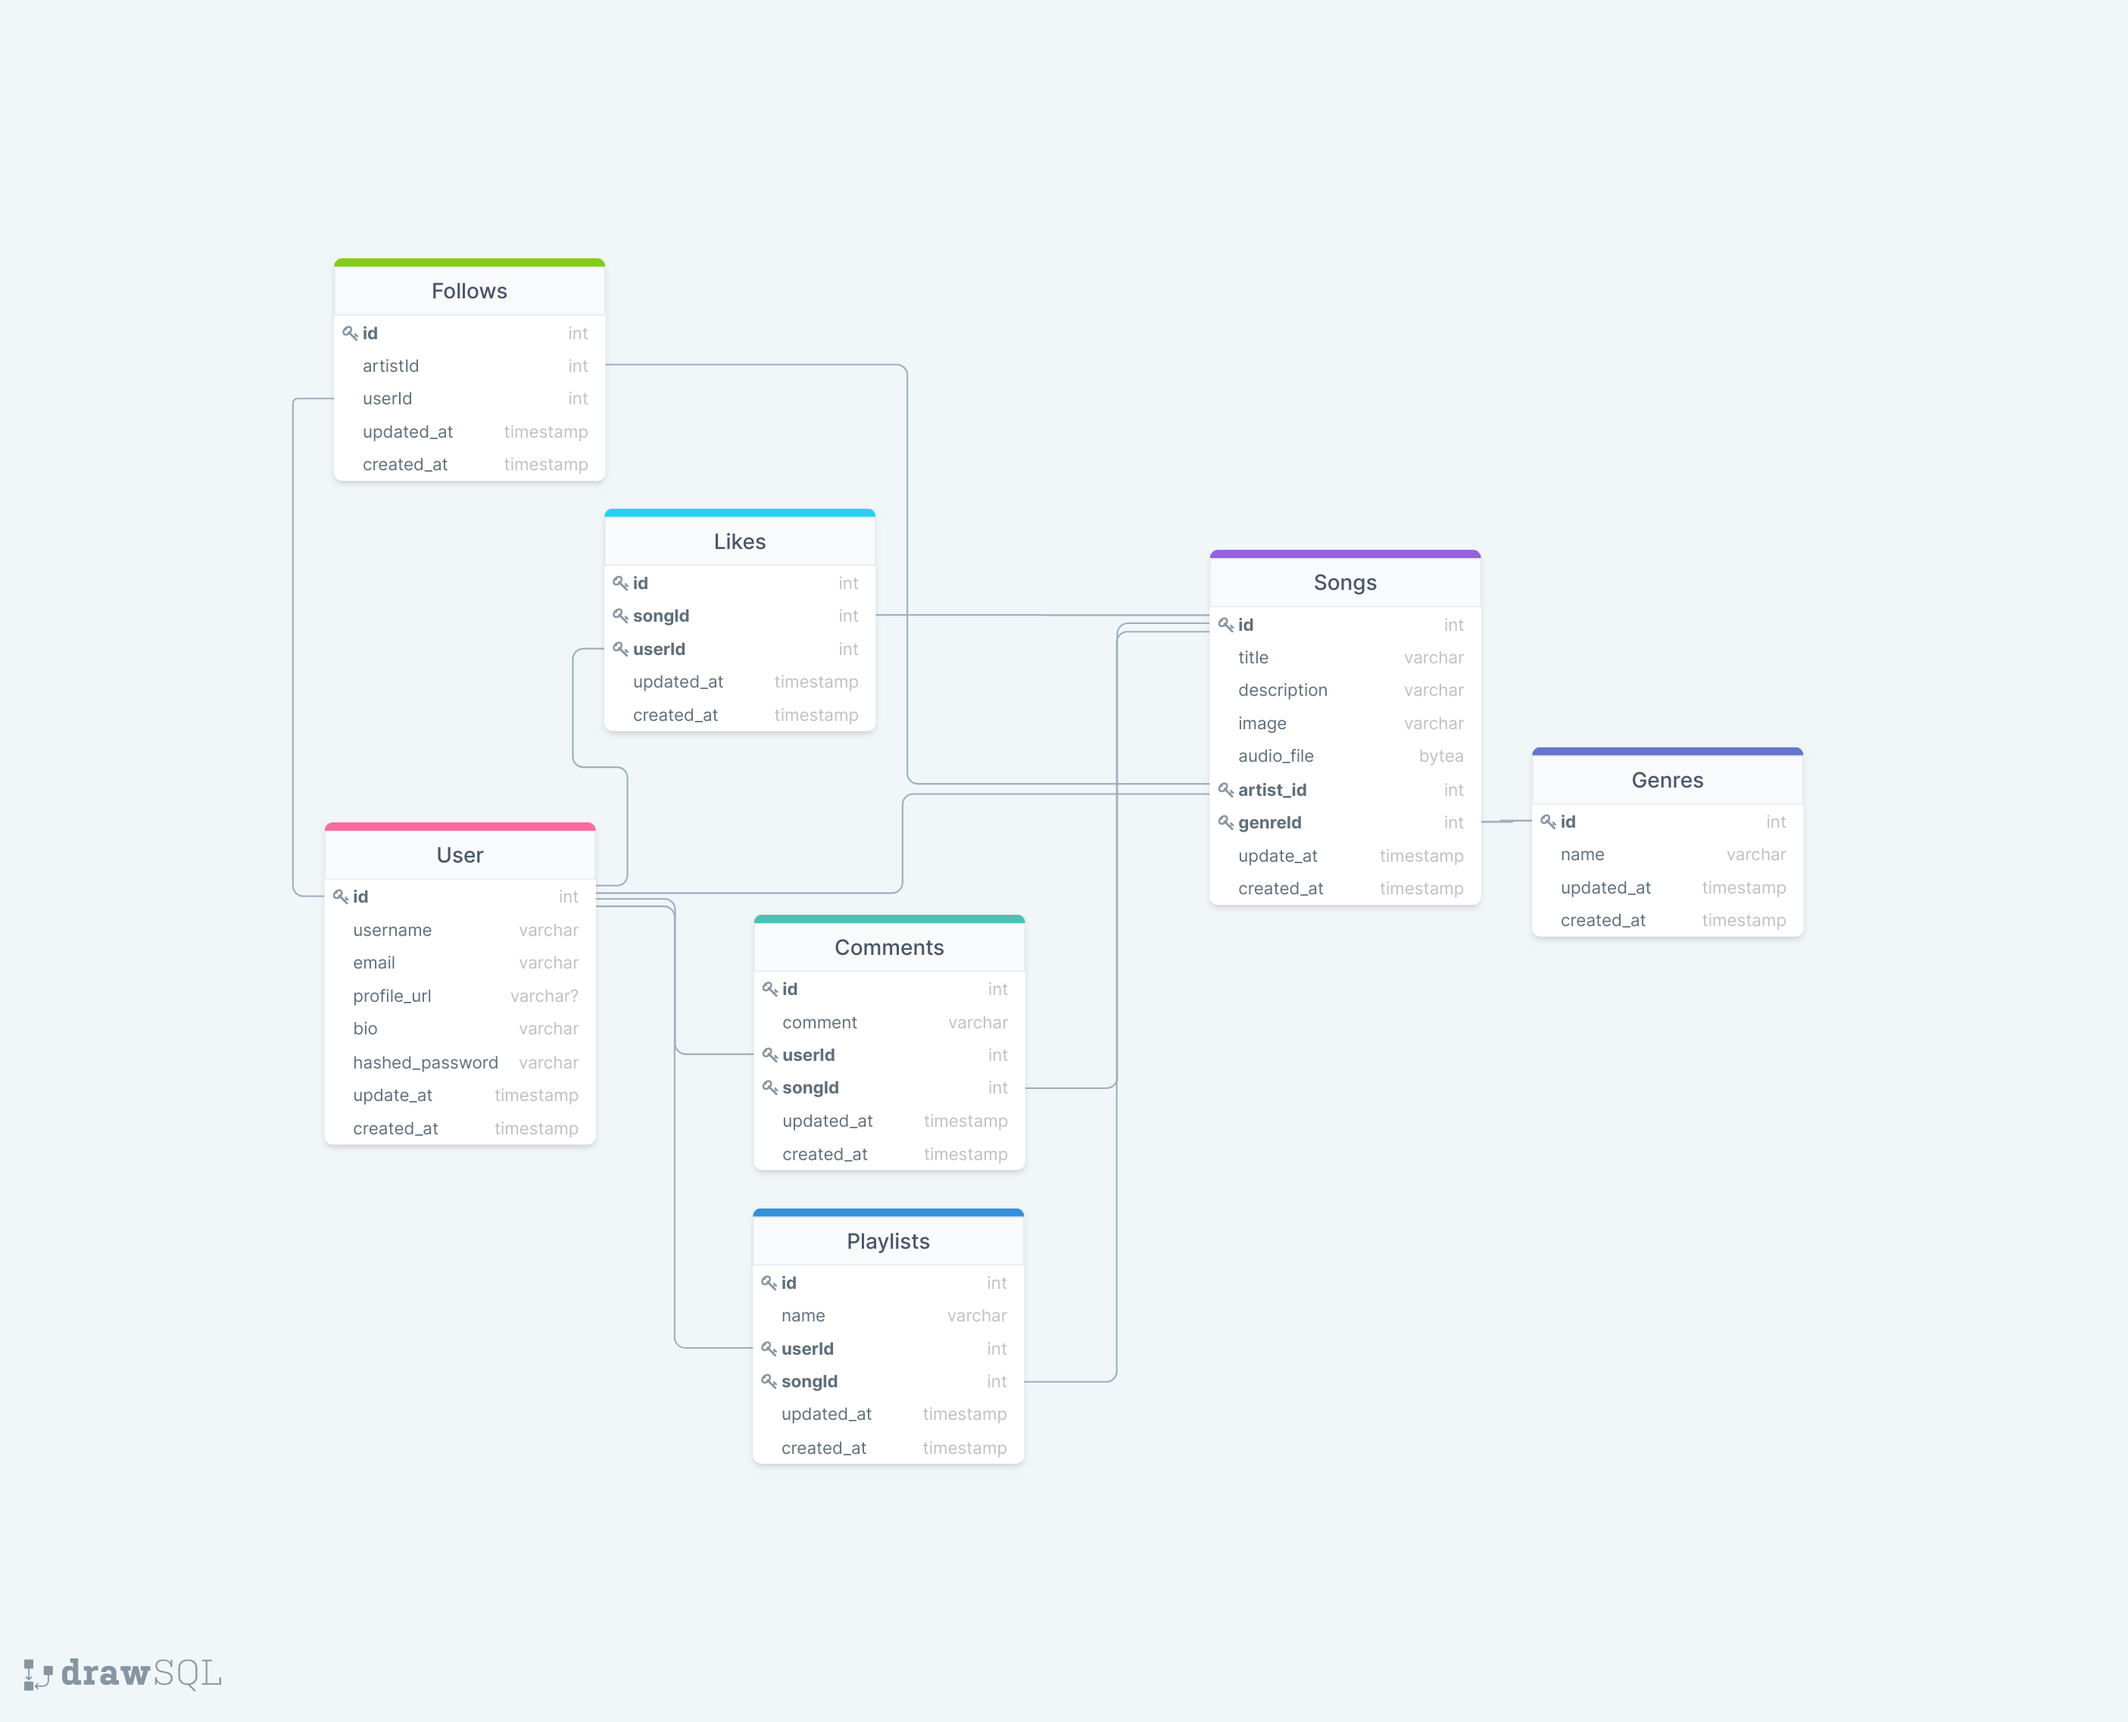
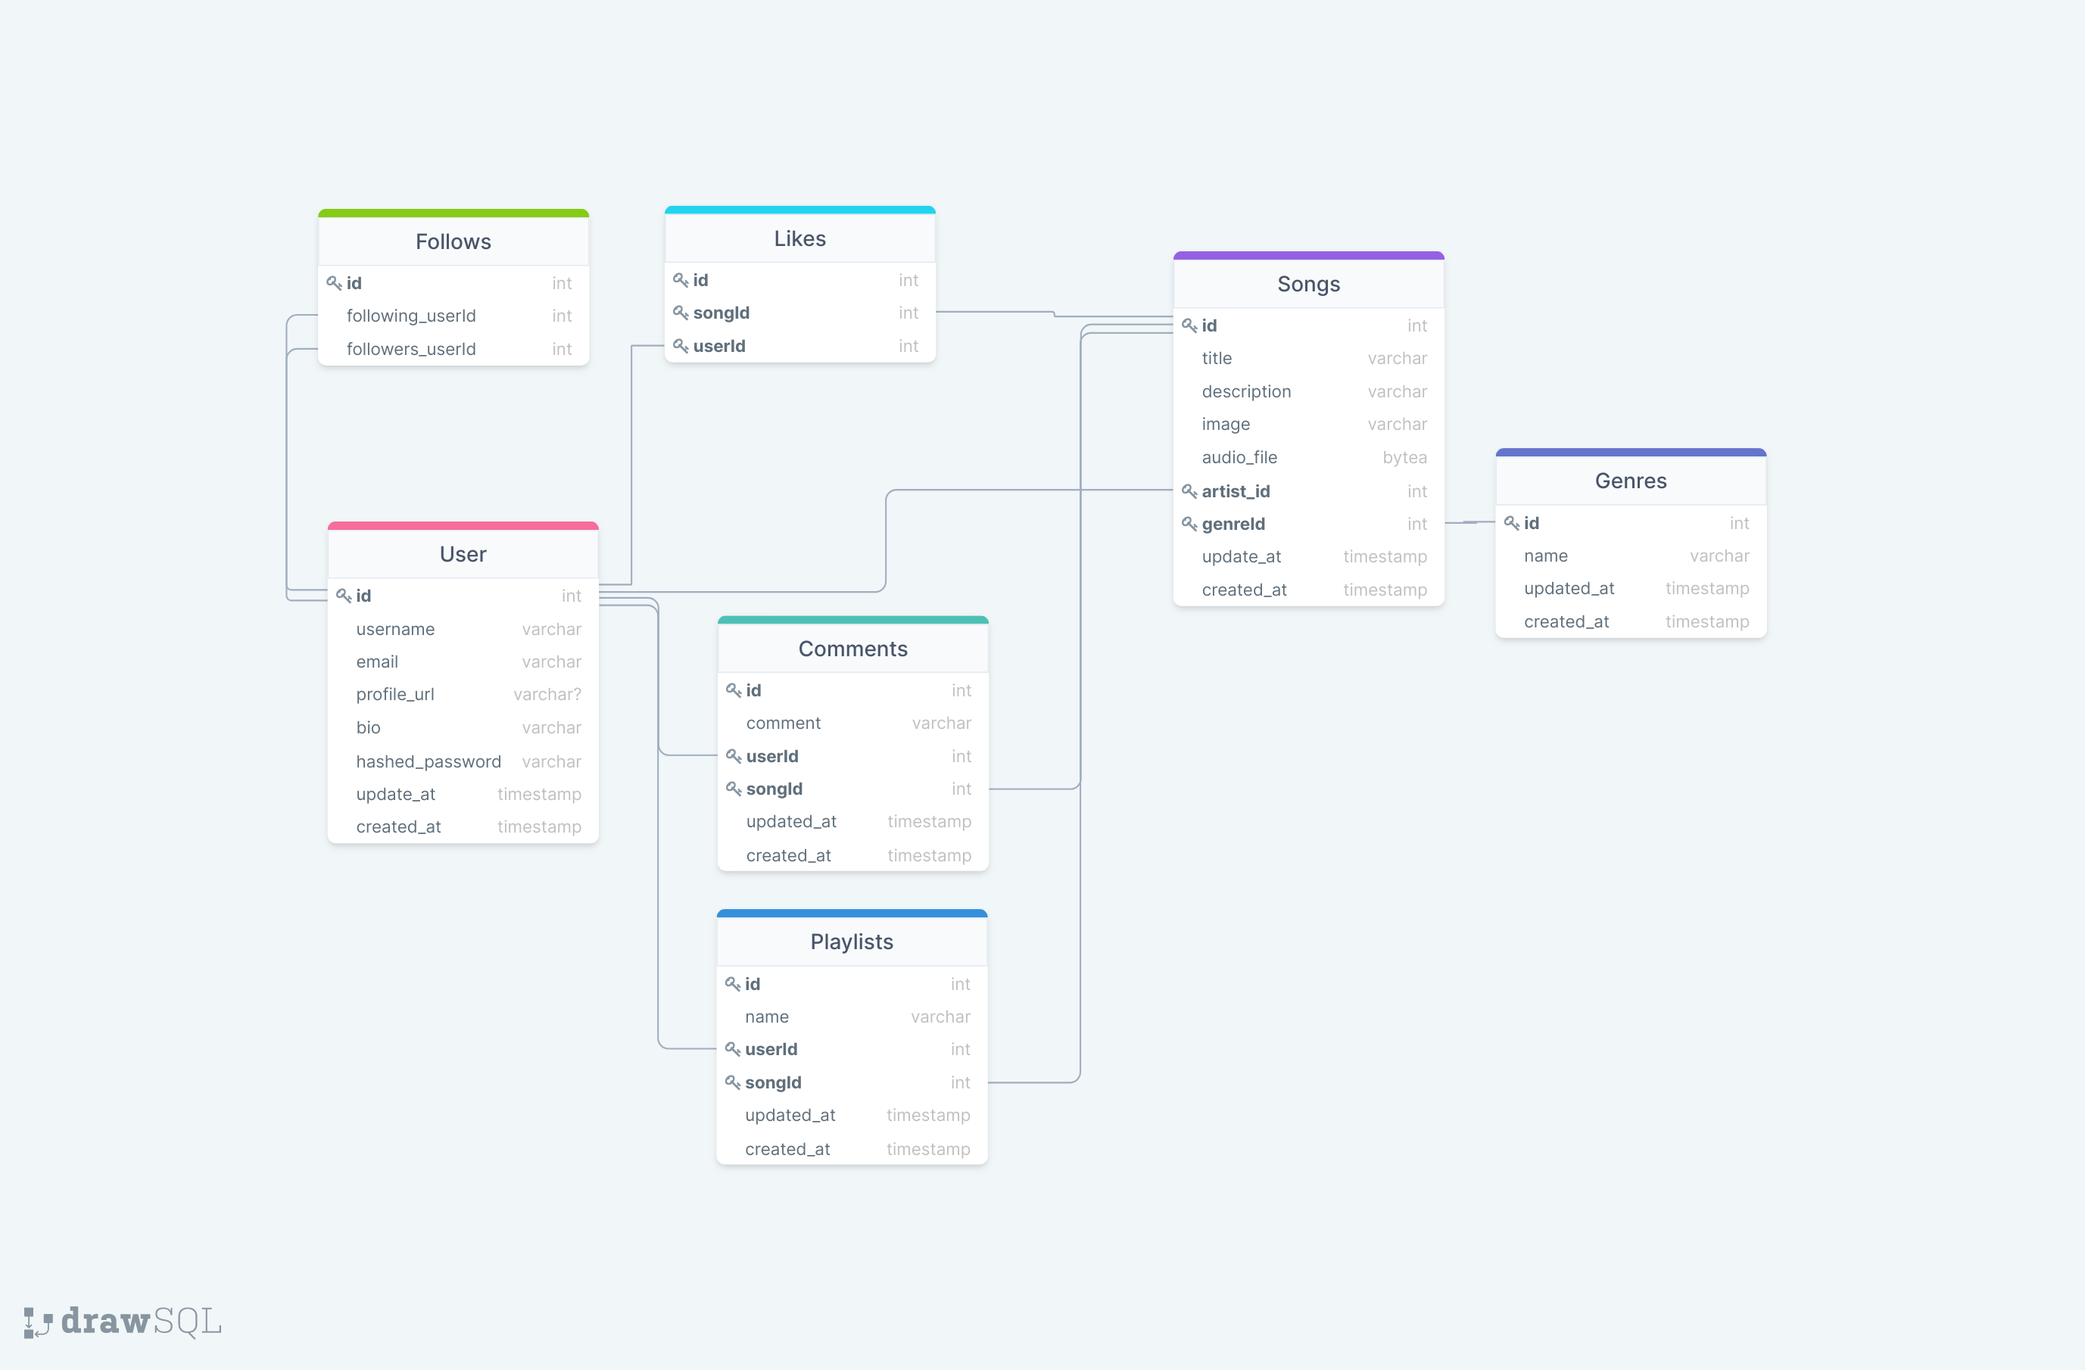
updated schema

diff --git a/migrations/versions/20210331_000825_.py b/migrations/versions/20210331_000825_.py
@@ -1,0 +1,101 @@
+"""empty message
+
+Revision ID: fbe1c0705501
+Revises: 
+Create Date: 2021-03-31 00:08:25.841556
+
+"""
+from alembic import op
+import sqlalchemy as sa
+
+
+# revision identifiers, used by Alembic.
+revision = 'fbe1c0705501'
+down_revision = None
+branch_labels = None
+depends_on = None
+
+
+def upgrade():
+    # ### commands auto generated by Alembic - please adjust! ###
+    op.create_table('genres',
+    sa.Column('id', sa.Integer(), nullable=False),
+    sa.Column('name', sa.String(length=40), nullable=False),
+    sa.Column('created_at', sa.DateTime(), nullable=False),
+    sa.Column('updated_at', sa.DateTime(), nullable=False),
+    sa.PrimaryKeyConstraint('id'),
+    sa.UniqueConstraint('name')
+    )
+    op.create_table('users',
+    sa.Column('id', sa.Integer(), nullable=False),
+    sa.Column('username', sa.String(length=40), nullable=False),
+    sa.Column('email', sa.String(length=255), nullable=False),
+    sa.Column('hashed_password', sa.String(length=255), nullable=False),
+    sa.Column('profile_URL', sa.String(length=255), nullable=True),
+    sa.Column('created_at', sa.DateTime(), nullable=False),
+    sa.Column('updated_at', sa.DateTime(), nullable=False),
+    sa.PrimaryKeyConstraint('id'),
+    sa.UniqueConstraint('email'),
+    sa.UniqueConstraint('username')
+    )
+    op.create_table('follows',
+    sa.Column('following_userId', sa.Integer(), nullable=False),
+    sa.Column('followers_userId', sa.Integer(), nullable=False),
+    sa.ForeignKeyConstraint(['followers_userId'], ['users.id'], ),
+    sa.ForeignKeyConstraint(['following_userId'], ['users.id'], )
+    )
+    op.create_table('songs',
+    sa.Column('id', sa.Integer(), nullable=False),
+    sa.Column('title', sa.String(length=50), nullable=False),
+    sa.Column('description', sa.String(length=255), nullable=True),
+    sa.Column('image_url', sa.String(length=255), nullable=True),
+    sa.Column('audio_file', sa.String(length=255), nullable=True),
+    sa.Column('artist_id', sa.Integer(), nullable=False),
+    sa.Column('genre_id', sa.Integer(), nullable=False),
+    sa.Column('created_at', sa.DateTime(), nullable=False),
+    sa.Column('updated_at', sa.DateTime(), nullable=False),
+    sa.ForeignKeyConstraint(['artist_id'], ['users.id'], ),
+    sa.ForeignKeyConstraint(['genre_id'], ['genres.id'], ),
+    sa.PrimaryKeyConstraint('id')
+    )
+    op.create_table('comments',
+    sa.Column('id', sa.Integer(), nullable=False),
+    sa.Column('comment', sa.String(length=255), nullable=True),
+    sa.Column('user_id', sa.Integer(), nullable=False),
+    sa.Column('song_id', sa.Integer(), nullable=False),
+    sa.Column('created_at', sa.DateTime(), nullable=False),
+    sa.Column('updated_at', sa.DateTime(), nullable=False),
+    sa.ForeignKeyConstraint(['song_id'], ['songs.id'], ),
+    sa.ForeignKeyConstraint(['user_id'], ['users.id'], ),
+    sa.PrimaryKeyConstraint('id')
+    )
+    op.create_table('likes',
+    sa.Column('user_id', sa.Integer(), nullable=False),
+    sa.Column('song_id', sa.Integer(), nullable=False),
+    sa.ForeignKeyConstraint(['song_id'], ['songs.id'], ),
+    sa.ForeignKeyConstraint(['user_id'], ['users.id'], )
+    )
+    op.create_table('playlists',
+    sa.Column('id', sa.Integer(), nullable=False),
+    sa.Column('name', sa.String(length=255), nullable=True),
+    sa.Column('user_id', sa.Integer(), nullable=False),
+    sa.Column('song_id', sa.Integer(), nullable=False),
+    sa.Column('created_at', sa.DateTime(), nullable=False),
+    sa.Column('updated_at', sa.DateTime(), nullable=False),
+    sa.ForeignKeyConstraint(['song_id'], ['songs.id'], ),
+    sa.ForeignKeyConstraint(['user_id'], ['users.id'], ),
+    sa.PrimaryKeyConstraint('id')
+    )
+    # ### end Alembic commands ###
+
+
+def downgrade():
+    # ### commands auto generated by Alembic - please adjust! ###
+    op.drop_table('playlists')
+    op.drop_table('likes')
+    op.drop_table('comments')
+    op.drop_table('songs')
+    op.drop_table('follows')
+    op.drop_table('users')
+    op.drop_table('genres')
+    # ### end Alembic commands ###

diff --git a/app/models/user.py b/app/models/user.py
@@ -20,11 +20,11 @@ likes = db.Table(
 follows = db.Table(
     'follows',
     db.Column(
-        "user_id", db.Integer, db.ForeignKey('users.id'),
+        "following_userId", db.Integer, db.ForeignKey('users.id'),
         nullable=False
     ),
     db.Column(
-        'artist_id', db.Integer, db.ForeignKey('users.id'),
+        'followers_userId', db.Integer, db.ForeignKey('users.id'),
         nullable=False
     )
 )
@@ -47,19 +47,12 @@ class User(db.Model, UserMixin):
 
 
 # --------------------------------------------------------------------
-    song_admin = db.relationship('Song', back_populates='admin')
+    song_artist = db.relationship('Song', back_populates='artist')
     comments = db.relationship('Comment', back_populates='users')
     playlists = db.relationship('Playlist', back_populates='users')
     songs = db.relationship(
         'Song', secondary=likes, back_populates='users', lazy='dynamic'
     )
-    artists = db.relationship(
-        'User', secondary=follows, back_populates='users', lazy='dynamic'
-    )
-    users = db.relationship(
-        'User', secondary=follows, back_populates='artists', lazy='dynamic'
-    )
-
 
     @property
     def password(self):
@@ -85,8 +78,6 @@ class Song(db.Model):
     __tablename__ = 'songs'
 
     id = db.Column(db.Integer, primary_key=True)
-    admin_id = db.Column(db.Integer, db.ForeignKey(
-        'users.id'), nullable=False, )
     title = db.Column(db.String(50), nullable=False)
     description = db.Column(db.String(255))
     image_url = db.Column(db.String(255))
@@ -101,9 +92,7 @@ class Song(db.Model):
     updated_at = db.Column(
         db.DateTime, nullable=False, default=datetime.utcnow
     )
-
-    admin = db.relationship('User', back_populates='song_admin')
-    artist = db.relationship('Artist', back_populates='songs')
+    artist = db.relationship('User', back_populates='song_artist')
     genre = db.relationship('Genre', back_populates='songs')
     comments = db.relationship('Comment', back_populates='songs')
     playlists = db.relationship('Playlist', back_populates='songs')
@@ -115,7 +104,6 @@ class Song(db.Model):
     def to_dict(self):
         return {
             "id": self.id,
-            "admin_id": self.admin_id,
             "title": self.title,
             "description": self.description,
             "image_url": self.image_url,

diff --git a/app/models/__init__.py b/app/models/__init__.py
@@ -1,2 +1,2 @@
 from .db import db
-from .user import User, Song, Artist, Genre, Comment, Playlist
+from .user import User, Song, Genre, Comment, Playlist
